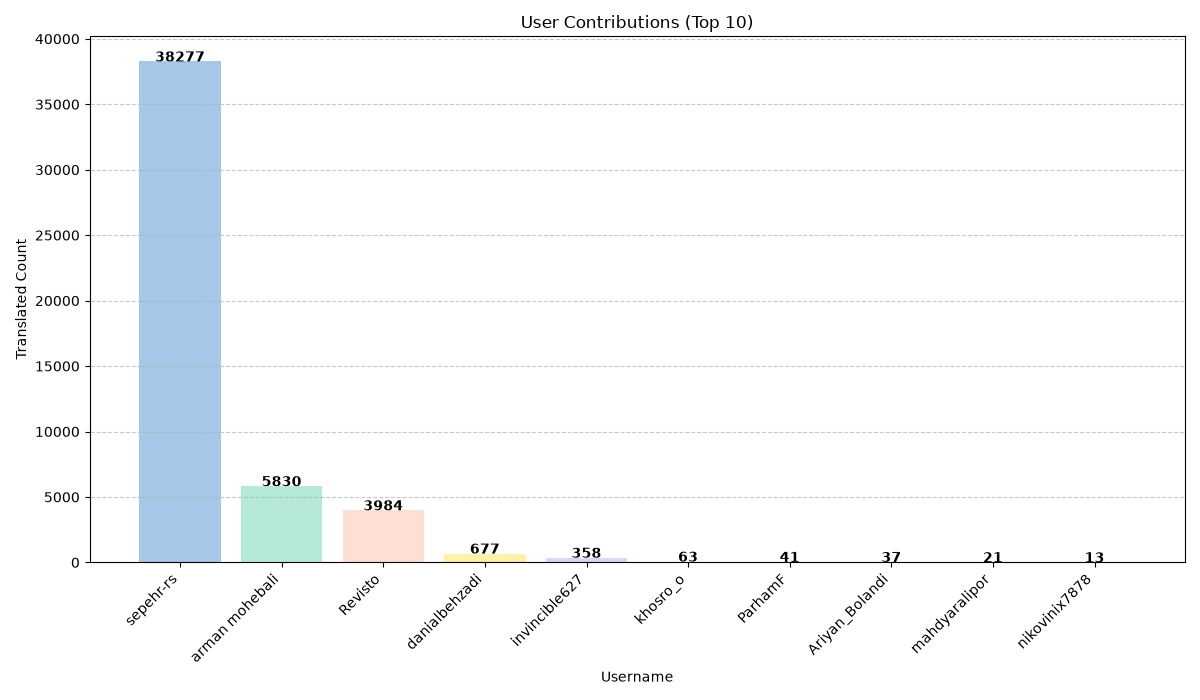
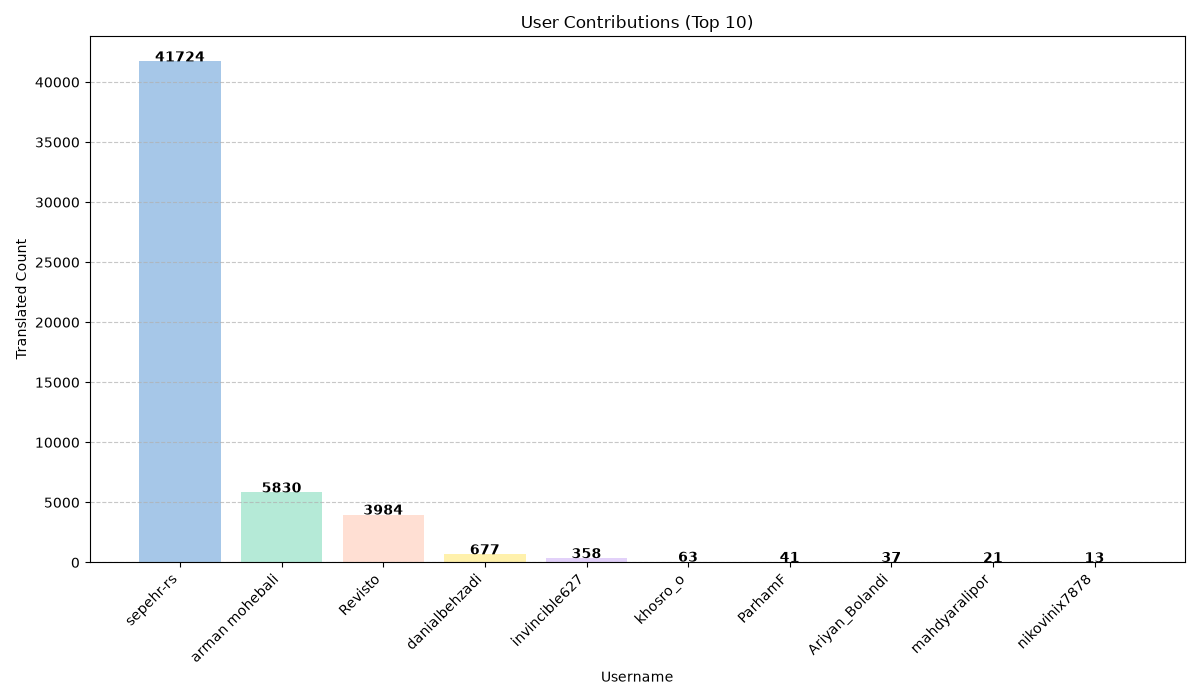
chore: update translation status, PO headers, team credits, and contributor chart

diff --git a/STATUS.md b/STATUS.md
@@ -7,6 +7,7 @@
 | about.po | 100.0% | 0.0% | 10 | 0 |
 | bugs.po | 100.0% | 0.0% | 31 | 0 |
 | builtins/constants.po | 100.0% | 0.0% | 22 | 0 |
+| builtins/exceptions.po | 100.0% | 0.0% | 207 | 0 |
 | builtins/functions.po | 100.0% | 0.0% | 539 | 0 |
 | builtins/index.po | 100.0% | 0.0% | 5 | 0 |
 | builtins/stdtypes.po | 100.0% | 0.0% | 1608 | 0 |
@@ -34,6 +35,7 @@
 | c-api/datetime.po | 100.0% | 0.0% | 67 | 0 |
 | c-api/descriptor.po | 100.0% | 0.0% | 35 | 0 |
 | c-api/dict.po | 100.0% | 0.0% | 123 | 0 |
+| c-api/exceptions.po | 100.0% | 0.0% | 293 | 0 |
 | c-api/extension-modules.po | 100.0% | 0.0% | 74 | 0 |
 | c-api/file.po | 100.0% | 0.0% | 31 | 0 |
 | c-api/float.po | 100.0% | 0.0% | 55 | 0 |
@@ -423,6 +425,7 @@
 | library/tabnanny.po | 100.0% | 0.0% | 11 | 0 |
 | library/tarfile.po | 100.0% | 0.0% | 367 | 0 |
 | library/telnetlib.po | 100.0% | 0.0% | 4 | 0 |
+| library/tempfile.po | 100.0% | 0.0% | 90 | 0 |
 | library/termios.po | 100.0% | 0.0% | 25 | 0 |
 | library/test.po | 100.0% | 0.0% | 341 | 0 |
 | library/text.po | 100.0% | 0.0% | 3 | 0 |
@@ -548,14 +551,11 @@
 | whatsnew/3.8.po | 100.0% | 0.0% | 513 | 0 |
 | whatsnew/3.9.po | 100.0% | 0.0% | 380 | 0 |
 | whatsnew/index.po | 100.0% | 0.0% | 3 | 0 |
+| whatsnew/3.15.po | 99.9% | 0.1% | 818 | 0 |
 | library/ast.po | 99.7% | 0.3% | 345 | 0 |
-| whatsnew/3.15.po | 99.6% | 0.2% | 816 | 1 |
-| builtins/exceptions.po | 99.5% | 0.0% | 206 | 1 |
-| c-api/exceptions.po | 99.3% | 0.0% | 291 | 2 |
+| howto/abi3t-migration.po | 99.4% | 0.6% | 178 | 0 |
 | license.po | 99.3% | 0.7% | 138 | 0 |
-| library/tempfile.po | 97.8% | 0.0% | 88 | 2 |
-| howto/abi3t-migration.po | 94.4% | 0.6% | 169 | 9 |
 | reference/grammar.po | 85.7% | 14.3% | 6 | 0 |
-| whatsnew/changelog.po | 0.0% | 0.0% | 1 | 15434 |
-| **مجموع** | **82.9%** | **0.0%** | **74811** | **15449** |
+| whatsnew/changelog.po | 45.7% | 0.4% | 7056 | 8317 |
+| **مجموع** | **90.7%** | **0.1%** | **81882** | **8317** |
 <!-- TRANSLATION_STATUS_END -->

diff --git a/README.md b/README.md
@@ -49,6 +49,6 @@
 
 <!-- STATS_START -->
 ### مشارکتهای کاربران
-![نمودار مشارکتهای کاربران؛ sepehr-rs 38277، arman mohebali 5830، Revisto 3984، danialbehzadi 677، invincible627 358، khosro_o 63، ParhamF 41، Ariyan_Bolandi 37، mahdyaralipor 21، nikovinix7878 13](reports/contributor_stats_latest.png)
-(بهروزرسانی: 2026-10-07)
+![نمودار مشارکتهای کاربران؛ sepehr-rs 41724، arman mohebali 5830، Revisto 3984، danialbehzadi 677، invincible627 358، khosro_o 63، ParhamF 41، Ariyan_Bolandi 37، mahdyaralipor 21، nikovinix7878 13](reports/contributor_stats_latest.png)
+(بهروزرسانی: 2026-10-09)
 <!-- STATS_END -->

diff --git a/TEAM.md b/TEAM.md
@@ -1,7 +1,7 @@
 | User | Role | Translated Count |
 |:-----|:------:|:------------------:|
 | Revisto | coordinator | 3984 |
-| sepehr-rs | coordinator | 38277 |
+| sepehr-rs | coordinator | 41724 |
 | danialbehzadi | reviewer | 677 |
 | invincible627 | translator | 358 |
 | khosro_o | reviewer | 63 |
